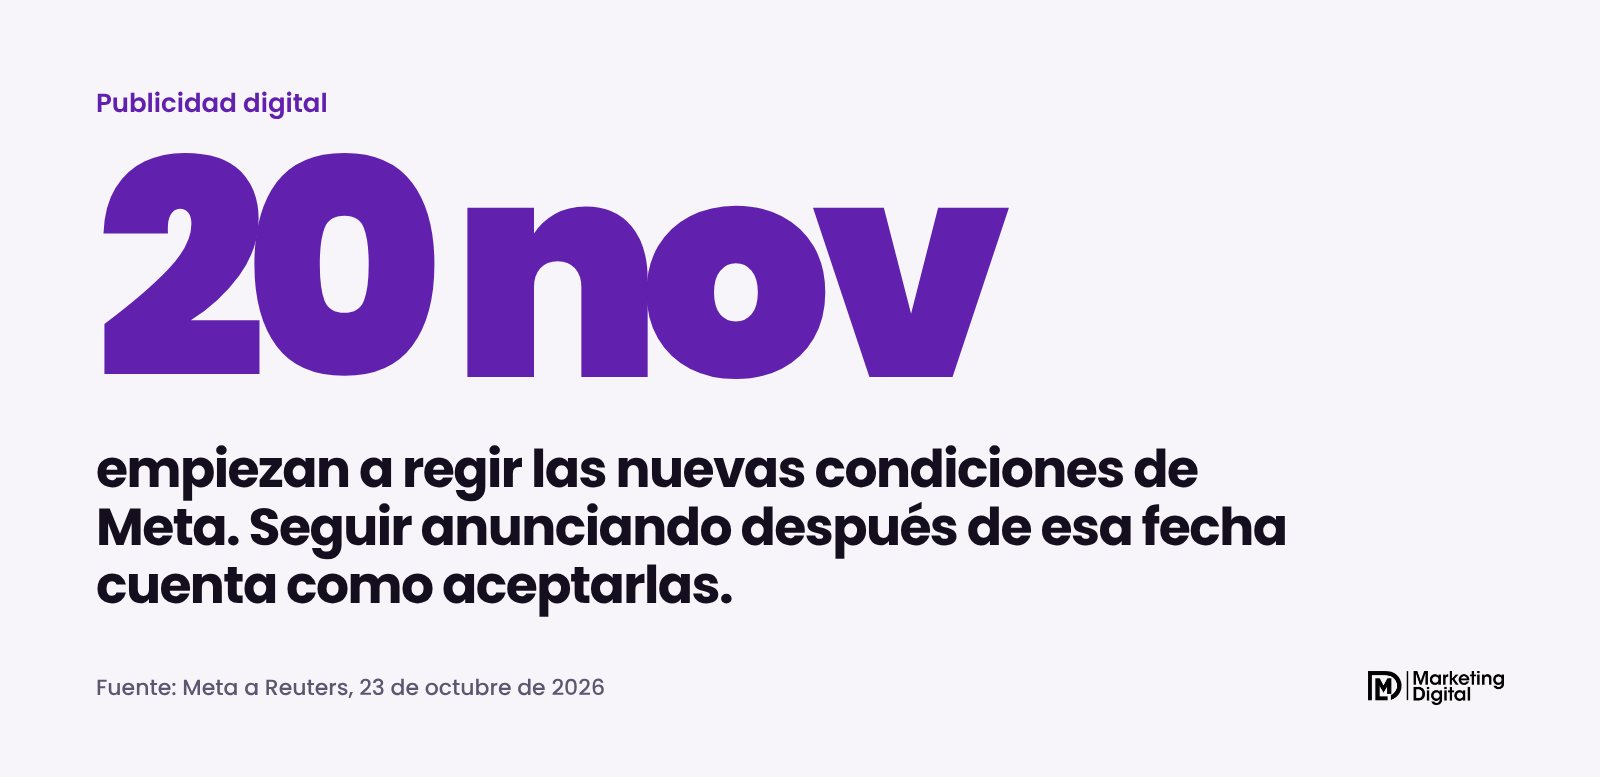
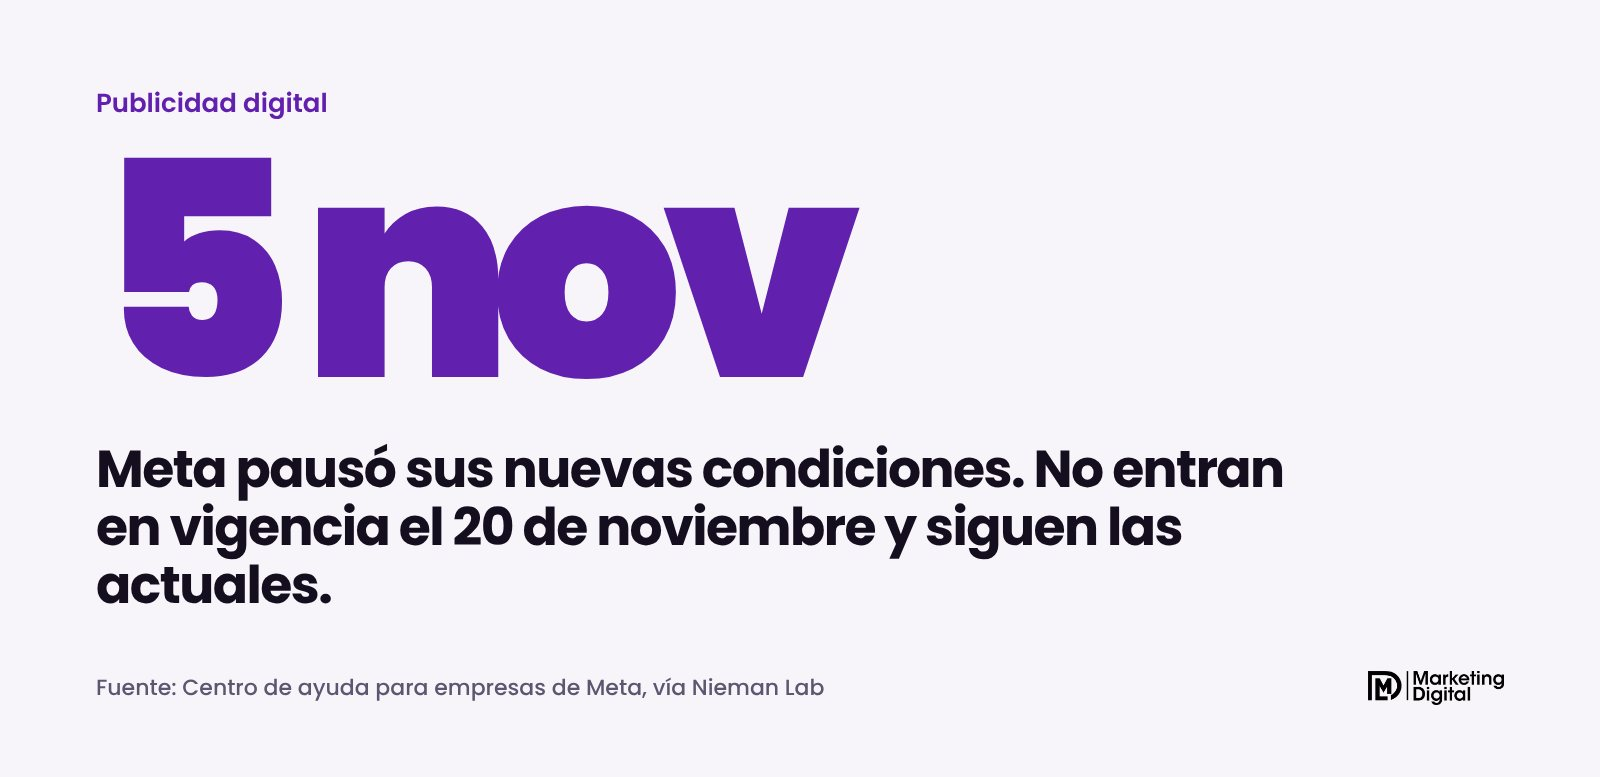
blog: corrección, Meta pausó sus nuevas condiciones de anuncios
Claude-Session: https://claude.ai/code/session_01UG6tJZRPigGpv9DiAAwL2H

Changed region(s): [[0.0625, 0.1853, 0.625, 0.4942], [0.0625, 0.556, 0.8125, 0.8031], [0.0938, 0.8649, 0.5312, 0.8958]]

diff --git a/content/blog/meta-nuevas-condiciones-anuncios-ia.md b/content/blog/meta-nuevas-condiciones-anuncios-ia.md
@@ -1,71 +1,80 @@
 ---
-title: "Meta cambia sus condiciones de anuncios el 20 de noviembre: lo que hace su IA pasa a ser tu responsabilidad"
-description: "Desde el 20 de noviembre de 2026 Meta aplica nuevas condiciones: lo que crea su IA en tus anuncios es tu responsabilidad. Qué revisar en tu cuenta antes."
+title: "Meta pausó sus nuevas condiciones de anuncios: qué proponía y qué revisar igual en tu cuenta"
+description: "Meta pausó las condiciones que iban a regir el 20 de noviembre y hacían al anunciante responsable de lo que crea su IA. Qué revisar igual en tu cuenta."
 date: 2026-11-06
+updated: 2026-11-09
 category: Publicidad digital
 service: /servicios/meta-ads/
-tldr: "Meta actualiza sus condiciones comerciales y de anuncios el 20 de noviembre de 2026. Si seguís anunciando, las aceptás, y lo que generen o editen sus herramientas de IA en tus anuncios pasa a ser responsabilidad tuya. Antes de esa fecha conviene revisar qué mejoras automáticas tenés activadas."
+tldr: "Meta pausó las nuevas condiciones comerciales y de anuncios que iban a regir el 20 de noviembre de 2026; siguen vigentes las actuales. La propuesta dejaba en claro que lo que generan sus herramientas de IA en tus anuncios es responsabilidad tuya, y ya hubo casos de anuncios con descuentos que el negocio no había aprobado, así que conviene revisar igual qué tenés activado."
 portada:
-  frase: "Lo que escribe la IA de Meta, lo firmás vos"
+  frase: "La IA de Meta arma tus anuncios: revisalos"
   escena: "Anuncio con texto generado por IA"
   motivo: anuncio
 figuras:
   - tipo: dato
-    dato: "20 nov"
-    texto: "empiezan a regir las nuevas condiciones de Meta. Seguir anunciando después de esa fecha cuenta como aceptarlas."
-    fuente: "Meta a Reuters, 23 de octubre de 2026"
+    dato: "5 nov"
+    texto: "Meta pausó sus nuevas condiciones. No entran en vigencia el 20 de noviembre y siguen las actuales."
+    fuente: "Centro de ayuda para empresas de Meta, vía Nieman Lab"
   - tipo: comparacion
     titulo: "Quién hace qué en un anuncio con IA de Meta"
     columnas: ["Lo que puede hacer la IA de Meta", "Lo que queda a tu cargo"]
     filas:
       - ["Escribir variantes del texto", "Que no prometa lo que no das"]
       - ["Cambiar fondos, recortes y música", "Que la imagen siga mostrando tu producto real"]
-      - ["Convertir una foto en video", "Que el resultado respete tu marca"]
-      - ["Equivocarse, según Meta", "Responder por ese error"]
+      - ["Sumar ofertas que detecta en tu web", "Que el descuento exista para ese anuncio"]
+      - ["Equivocarse, según Meta", "Detectar el error a tiempo"]
   - tipo: pasos
-    titulo: "Qué revisar antes del 20 de noviembre"
+    titulo: "Qué revisar en tu cuenta de anuncios"
     pasos:
       - "Abrí cada anuncio activo y mirá qué mejoras automáticas tiene prendidas"
       - "Apagá las que cambian textos o imágenes si no las vas a revisar"
+      - "Revisá si Meta puede usar ofertas detectadas en tu web"
       - "Mirá la vista previa de cada ubicación antes de publicar"
       - "Cuidá las promesas en rubros sensibles: salud, finanzas, inmuebles"
-      - "Si tenés dudas legales, consultalo con tu abogado"
 sources:
-  - title: "Meta delays its new Commercial Terms to 20 November (Relevant Audience)"
-    url: https://www.relevantaudience.com/meta/meta-commercial-terms-delayed-to-november-20-2026/
+  - title: "Meta pulls down controversial terms of service (Nieman Lab)"
+    url: https://www.niemanlab.org/2026/11/meta-pulls-down-controversial-terms-of-service/
+  - title: "Meta delays indefinitely its rollout of new commercial terms after publishers' concerns (Reuters, vía The Spokesman-Review)"
+    url: https://www.spokesman.com/stories/2026/oct/28/meta-delays-indefinitely-its-rollout-of-new-commer/
+  - title: "Meta's AI ads included unapproved discounts (Social Media Today)"
+    url: https://www.socialmediatoday.com/news/metas-ai-ads-included-unapproved-discounts/874067/
   - title: "Meta delays its AI terms to November 20: the trust problem does not move (PPC Land)"
     url: https://ppc.land/meta-delays-its-ai-terms-to-november-20-the-trust-problem-does-not-move/
 ---
 
-Sí, el 20 de noviembre de 2026 empiezan a regir las nuevas condiciones comerciales y de anuncios de Meta, y te alcanzan aunque no firmes nada: seguir anunciando en Facebook o Instagram después de esa fecha cuenta como aceptarlas. El cambio que más importa a una pyme es este: si las herramientas de inteligencia artificial de Meta crean o editan algo en tu anuncio, la responsabilidad por ese contenido es tuya. Antes de esa fecha conviene revisar qué tiene activado tu cuenta.
+*Actualización del 9 de noviembre de 2026: la primera versión de esta nota decía que las nuevas condiciones de Meta regían desde el 20 de noviembre. Meta las pausó el 5 de noviembre, así que corregimos la nota.*
 
-## ¿Qué cambia exactamente?
+No, las nuevas condiciones de anuncios de Meta no van a empezar a regir el 20 de noviembre. Meta las pausó y aclaró que siguen vigentes las condiciones actuales. La propuesta hacía al anunciante único responsable de lo que crean o editan las herramientas de inteligencia artificial de Meta en sus anuncios. Aunque esté en pausa, el riesgo de fondo ya existe hoy, y conviene revisar qué tiene activado tu cuenta.
 
-Meta actualizó dos documentos: las Condiciones comerciales y las Condiciones de autoservicio de anuncios, que son las que aceptás al usar el Administrador de anuncios. Iban a entrar en vigencia el 30 de octubre, pero un vocero de Meta le confirmó a Reuters el 23 de octubre que se pasaban al 20 de noviembre, para tener más tiempo de explicar los cambios.
+## ¿Qué pasó con las nuevas condiciones?
 
-![Dato: las nuevas condiciones de Meta rigen desde el 20 de noviembre de 2026](/img/blog/meta-nuevas-condiciones-anuncios-ia-1.jpg "No hay que firmar nada: seguir usando los productos de Meta cuenta como aceptarlas.")
+Meta había anunciado cambios en sus Condiciones comerciales y en las Condiciones de autoservicio de anuncios, las que aceptás al usar el Administrador de anuncios. Primero iban a regir el 30 de octubre y después se pasaron al 20 de noviembre.
 
-Según los textos publicados por Meta, que citan PPC Land y Relevant Audience, hay tres puntos centrales:
+Medios y editoriales se quejaron ante autoridades de competencia de Europa y del Reino Unido, sobre todo por una cláusula que permitía a Meta recorrer las webs de los negocios que usan sus productos. El 28 de octubre Meta le dijo a Reuters que podía demorar los cambios. El 5 de noviembre los pausó.
 
-- **La IA se puede equivocar.** Las condiciones dicen que las funciones de IA de Meta "pueden cometer errores".
-- **La responsabilidad es del anunciante.** El negocio queda como único responsable de los riesgos y del contenido que resulte de usar esas funciones. Además, tiene que cubrir a Meta ante reclamos de cualquier tipo.
-- **Meta puede cambiar sus productos sin aviso.** Se reserva el derecho de modificar, limitar o discontinuar funciones sin avisar antes.
+![Dato: Meta pausó sus nuevas condiciones el 5 de noviembre](/img/blog/meta-nuevas-condiciones-anuncios-ia-1.jpg "Por ahora no hay nueva fecha. Meta dijo que va a informar cuando tenga novedades.")
 
-Las condiciones también incluyen una cláusula que autoriza a Meta a recorrer las webs vinculadas a los negocios que usan sus productos. Esa parte generó críticas de medios y editoriales, y Meta sacó la palabra "entrenar" del texto antes de la postergación.
+Según Nieman Lab, el centro de ayuda para empresas de Meta ahora dice que las actualizaciones "están en pausa y no entrarán en vigencia el 20 de noviembre de 2026", y que las condiciones existentes siguen vigentes. Un vocero agregó que se toman el tiempo para hacerlo bien.
 
-## ¿Qué funciones de IA entran en juego?
+## ¿Qué decía la propuesta sobre la IA?
 
-Muchas de las que hoy vienen prendidas por defecto en el Administrador de anuncios. Las mejoras automáticas de Advantage+ pueden reescribir tus textos, cambiar el fondo o el recorte de una imagen, sumar música, agregar subtítulos o convertir una foto en un video corto. También están las herramientas que generan variantes del anuncio con IA.
+Según los textos que citó PPC Land antes de la pausa, había tres puntos que a cualquier anunciante le conviene conocer, porque muestran cómo piensa Meta estas herramientas:
 
-![Comparación: lo que hace la IA de Meta y lo que queda a cargo del anunciante](/img/blog/meta-nuevas-condiciones-anuncios-ia-2.jpg "La IA genera variantes. Si alguna dice algo que no corresponde, responde el anunciante.")
+- **La IA se puede equivocar.** Las condiciones decían que las funciones de IA de Meta "pueden cometer errores".
+- **La responsabilidad es del anunciante.** El negocio quedaba como único responsable de los riesgos y del contenido que resultara de usar esas funciones.
+- **Meta puede cambiar sus productos sin aviso.** Se reservaba el derecho de modificar o discontinuar funciones sin avisar antes.
 
-Estas funciones pueden ayudar a que un anuncio rinda más. El problema aparece cuando nadie mira lo que generan. Una variante de texto puede prometer un descuento que no existe, un plazo de entrega que no cumplís o un resultado que en tu rubro no se puede garantizar.
+Que la propuesta esté en pausa no significa que Meta haya cambiado de idea sobre esos puntos. Puede volver con otra redacción.
 
-> Si una variante creada por la IA promete algo que tu negocio no da, el reclamo te llega a vos.
+## ¿Por qué revisar la cuenta igual?
 
-## ¿Le afecta a una pyme argentina?
+Porque los errores ya están pasando. El 8 de noviembre Social Media Today contó que las herramientas de IA de Meta tomaron descuentos de la web de una tienda y los mostraron en sus anuncios de Facebook e Instagram, incluso cuando el negocio había apagado las promociones en el anuncio original.
 
-Sí. Las Condiciones comerciales de Meta se aplican al uso comercial de sus productos en todo el mundo. Si tu pyme anuncia desde el Administrador de anuncios, estas herramientas están a tu alcance y muchas vienen prendidas.
+![Comparación: lo que hace la IA de Meta y lo que queda a cargo del anunciante](/img/blog/meta-nuevas-condiciones-anuncios-ia-2.jpg "La IA genera variantes y suma ofertas. Revisarlas sigue siendo tarea del anunciante.")
+
+Las mejoras automáticas de Advantage+ pueden reescribir tus textos, cambiar el fondo o el recorte de una imagen, sumar música o convertir una foto en un video corto. Muchas vienen prendidas por defecto. Pueden ayudar a que un anuncio rinda más, pero si nadie mira lo que generan, una variante puede prometer un descuento que no existe o un plazo que no cumplís.
+
+> Con o sin condiciones nuevas, si un anuncio promete algo que tu negocio no da, el reclamo te llega a vos.
 
 El riesgo es mayor en algunos rubros:
 
@@ -74,22 +83,18 @@ El riesgo es mayor en algunos rubros:
 | Salud y estética | Promesas de resultados o de curas |
 | Finanzas y seguros | Tasas, cuotas o condiciones que no ofrecés |
 | Inmobiliarias y construcción | Precios, metros o plazos inventados |
-| Comercios con stock | Productos, colores o modelos que no tenés |
+| Comercios con stock | Productos, descuentos o modelos que no corresponden |
 
-## ¿Qué hacer antes del 20 de noviembre?
+## ¿Qué revisar en tu cuenta?
 
-![Pasos para revisar la cuenta de anuncios antes del 20 de noviembre](/img/blog/meta-nuevas-condiciones-anuncios-ia-3.jpg "Una revisión de una hora puede evitar un problema serio.")
+![Pasos para revisar la cuenta de anuncios de Meta](/img/blog/meta-nuevas-condiciones-anuncios-ia-3.jpg "Una revisión de una hora puede evitar un problema serio.")
 
 1. **Revisá tus anuncios activos.** En cada uno, buscá la sección de mejoras de contenido creativo y mirá cuáles están prendidas.
-2. **Apagá las que no vas a controlar.** Si no tenés tiempo de revisar las variantes de texto o imagen, es más seguro desactivarlas. Las que solo ajustan el formato a cada ubicación suelen ser de menor riesgo.
-3. **Mirá la vista previa en cada ubicación.** Feed, historias y reels pueden mostrar versiones distintas de un mismo anuncio.
-4. **Escribí textos que no dejen lugar a dudas.** Precios con condiciones claras, sin promesas que la IA pueda exagerar.
-5. **Si tu rubro es sensible, consultalo con tu abogado.** Este artículo explica el cambio, no reemplaza una opinión legal.
-
-## ¿Conviene dejar de usar la IA de Meta?
-
-No necesariamente. Las herramientas automáticas pueden bajar el costo por resultado, y en muchas cuentas funcionan bien. Lo que cambia es que ahora queda por escrito que el control es tuyo. La forma sana de usarlas es la misma de siempre: probar, mirar lo que generan y dejar prendido solo lo que entendés.
+2. **Apagá las que no vas a controlar.** Si no tenés tiempo de revisar las variantes de texto o imagen, es más seguro desactivarlas.
+3. **Revisá las ofertas detectadas.** Si vendés online, mirá en el Administrador de ventas si Meta puede usar ofertas que detecta en tu web en otras campañas.
+4. **Mirá la vista previa en cada ubicación.** Feed, historias y reels pueden mostrar versiones distintas de un mismo anuncio.
+5. **Si tu rubro es sensible, consultalo con tu abogado.** Esta nota explica el tema, no reemplaza una opinión legal.
 
 ## En resumen
 
-Desde el 20 de noviembre, lo que la IA de Meta haga con tus anuncios corre por tu cuenta. No hace falta entrar en pánico ni apagar todo, pero sí revisar la cuenta antes de esa fecha. Si querés que miremos juntos tus campañas y qué tienen activado, escribinos y lo revisamos.
+Las nuevas condiciones de Meta están en pausa y, por ahora, no cambia nada en lo legal. Lo que sí sigue igual es que la IA de Meta puede modificar tus anuncios, y que ya mostró descuentos que nadie había aprobado. Si querés que revisemos juntos qué tienen activado tus campañas, escribinos.
